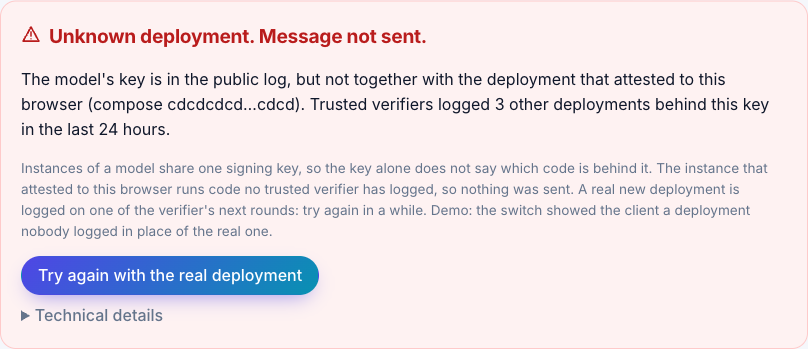
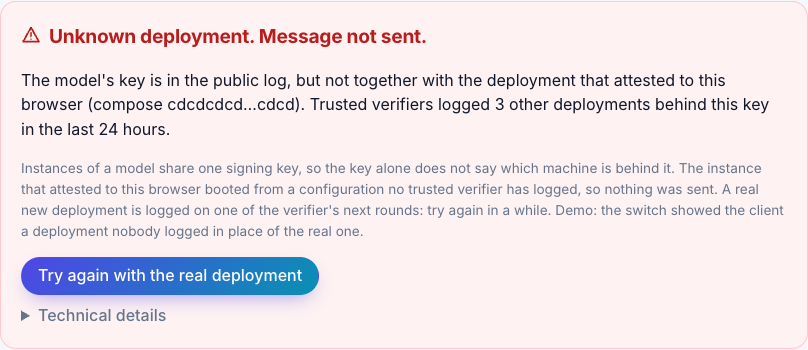
fix(web): say that the compose hash measures the enclave's launcher
The refusal card, the intro, the proof card hint and the /log page called the
compose hash "the code behind the key". It is the configuration the enclave
boots with; the containers that serve the model are started later and are not
in it. EN and RU, two screenshots retaken.

diff --git a/apps/web/lib/i18n.ts b/apps/web/lib/i18n.ts
@@ -57,7 +57,7 @@ const en = {
   /** What the refusal protected against, where a counterfactual exists; the quorum and split-view bodies already say it all. */
   refusedConsequence: {
     absent: 'Had Ainek sent, the message would have been encrypted to a key no verifier vouches for: whoever holds that key could read it.',
-    'unknown-deployment': 'Instances of a model share one signing key, so the key alone does not say which code is behind it. The instance that attested to this browser runs code no trusted verifier has logged, so nothing was sent. A real new deployment is logged on one of the verifier\'s next rounds: try again in a while.',
+    'unknown-deployment': 'Instances of a model share one signing key, so the key alone does not say which machine is behind it. The instance that attested to this browser booted from a configuration no trusted verifier has logged, so nothing was sent. A real new deployment is logged on one of the verifier\'s next rounds: try again in a while.',
     'untrusted-only': 'Ainek cannot tell this key from a forged one on the word of verifiers it does not trust, so nothing was sent.',
   } as Partial<Record<KeyLogReason, string>>,
   retryHonest: 'Try again with the honest key',
@@ -98,7 +98,7 @@ const en = {
     ],
     tryTitle: 'Try the honest path or one of the catches',
     chips: { ask: 'Ask a private question', tamper: 'Swap the key before sending', deployment: 'A deployment nobody logged', incognito: 'A model without hardware proof' },
-    subs: { ask: 'Encrypted to the attested key, answered with a proof you can re-check.', tamper: 'The fail-closed rule: the prompt never leaves the browser.', deployment: 'The real key, but code no verifier has logged behind it: nothing is sent.', incognito: 'Privacy by contract only, and the card says so.' },
+    subs: { ask: 'Encrypted to the attested key, answered with a proof you can re-check.', tamper: 'The fail-closed rule: the prompt never leaves the browser.', deployment: 'The real key, but a boot configuration no verifier has logged behind it: nothing is sent.', incognito: 'Privacy by contract only, and the card says so.' },
     prompts: { ask: 'In two sentences: what is a TEE, and why would I want my AI to run inside one?', tamper: 'hello', deployment: 'hello', incognito: 'hello' },
   },
   progress: {
@@ -120,7 +120,7 @@ const en = {
   explainRows: 'What do these rows mean?',
   hideRows: 'Hide the explanations',
   hints: {
-    model: 'Which model, and the deployment image in the attestation checked before sending. The compose hash measures the container set, not the weights.',
+    model: 'Which model, and the configuration its enclave booted with, from the attestation checked before sending. The compose hash measures that launcher. It does not measure the containers that serve the model, which the launcher starts later, or the weights.',
     hardware: "The Intel TDX quote was verified here against Intel's collateral; the NVIDIA GPU verdict came from NVIDIA's attestation service through NEAR AI's proxy and was checked here against NVIDIA's keys.",
     key: 'The signing key was found in the append-only log on NEAR, written by a verifier. Without it the message would not have been sent.',
     hashes: "Recomputed in this browser from the exact bytes: the step NEAR AI's own Verification Center says it cannot do.",
@@ -155,7 +155,7 @@ const en = {
     notTrusted: '(not in trust set)',
     deployments: {
       title: 'Deployments seen',
-      intro: 'Instances of a model share one signing key, so one key can stand in front of several deployments. Each line is one compose hash, the measurement of the container set, as verifiers logged it. A new line is a new compose file, not always new code: several hashes in this log carry the same set of container images, as replicas of one build would. The log records each one.',
+      intro: 'Instances of a model share one signing key, so one key can stand in front of several deployments. Each line is one compose hash, the measurement of the configuration an enclave boots with (its launcher), as verifiers logged it. The containers that serve the model are started later by that launcher and are not in this hash: a new release of them adds no line here. A new line is a new launcher configuration, not always new code: several hashes in this log carry the same set of launcher images, as replicas would. The log records each one.',
       enforced: { on: 'This site refuses to send unless the deployment that attests to your browser was logged in the last 24 hours by the verifiers you trust (the last column). The instance that then answers may be another one behind the same key: the gateway chooses per request.', off: 'This site is configured not to refuse on the deployment: it sends when the key is logged and shows the deployment on the proof card. The chat has a demo switch that shows the refusal.' },
       columns: { compose: 'compose', keys: 'signing key', verifiers: 'logged by', entries: 'entries', first: 'first seen', last: 'last seen', counts: 'would pass now' },
       counts: { ok: 'yes', 'below-quorum': 'no: below your quorum', 'split-view': 'no: your verifiers disagree', old: 'no: older than 24 h', untrusted: 'no: not from your trust set' },
@@ -410,7 +410,7 @@ const ru: typeof en = {
   refusedBody: 'Модель назвала ключ подписи, которого нет у доверенных верификаторов. Ainek отказывает, а не доверяет.',
   refusedConsequence: {
     absent: 'Если бы Ainek отправил, сообщение ушло бы на ключ, за который не ручается ни один верификатор: его владелец мог бы прочитать текст.',
-    'unknown-deployment': 'Экземпляры модели делят один ключ подписи, поэтому сам ключ не говорит, какой код за ним стоит. Экземпляр, который прошёл аттестацию перед этим браузером, работает на коде, которого не записал ни один доверенный верификатор, поэтому ничего не отправлено. Настоящий новый деплой верификатор запишет в один из ближайших раундов: попробуй позже.',
+    'unknown-deployment': 'Экземпляры модели делят один ключ подписи, поэтому сам ключ не говорит, какая машина за ним стоит. Экземпляр, который прошёл аттестацию перед этим браузером, загрузился с конфигурацией, которой не записал ни один доверенный верификатор, поэтому ничего не отправлено. Настоящий новый деплой верификатор запишет в один из ближайших раундов: попробуй позже.',
     'untrusted-only': 'Со слов верификаторов, которым клиент не доверяет, Ainek не отличит этот ключ от подделки, поэтому ничего не отправил.',
   },
   retryHonest: 'Повторить с честным ключом',
@@ -451,7 +451,7 @@ const ru: typeof en = {
     ],
     tryTitle: 'Попробуй честный путь или одну из поимок',
     chips: { ask: 'Задать приватный вопрос', tamper: 'Подменить ключ перед отправкой', deployment: 'Деплой, которого никто не записал', incognito: 'Модель без аппаратного доказательства' },
-    subs: { ask: 'Зашифровано на аттестованный ключ, ответ приходит с proof, который можно перепроверить.', tamper: 'Правило fail-closed: промпт не покидает браузер.', deployment: 'Ключ настоящий, но за ним код, которого не записал ни один верификатор: ничего не отправляется.', incognito: 'Приватность только по договору, и карточка так и скажет.' },
+    subs: { ask: 'Зашифровано на аттестованный ключ, ответ приходит с proof, который можно перепроверить.', tamper: 'Правило fail-closed: промпт не покидает браузер.', deployment: 'Ключ настоящий, но за ним загрузочная конфигурация, которой не записал ни один верификатор: ничего не отправляется.', incognito: 'Приватность только по договору, и карточка так и скажет.' },
     prompts: { ask: 'В двух предложениях: что такое TEE и зачем мне, чтобы мой ИИ работал внутри него?', tamper: 'hello', deployment: 'hello', incognito: 'hello' },
   },
   progress: {
@@ -473,7 +473,7 @@ const ru: typeof en = {
   explainRows: 'Что значат эти строки?',
   hideRows: 'Скрыть пояснения',
   hints: {
-    model: 'Какая модель и какой образ деплоя были в аттестации, проверенной перед отправкой. Compose-хеш измеряет набор контейнеров, а не веса.',
+    model: 'Какая модель и с какой конфигурацией загрузился её анклав, по аттестации, проверенной перед отправкой. Compose-хеш измеряет этот загрузчик. Он не измеряет контейнеры, обслуживающие модель (их загрузчик запускает позже), и не измеряет веса.',
     hardware: 'Квота Intel TDX проверена здесь по данным Intel; вердикт по NVIDIA GPU выдал сервис аттестации NVIDIA через прокси NEAR AI и проверен здесь по ключам NVIDIA.',
     key: 'Ключ подписи найден в append-only логе в NEAR, который пишет верификатор. Без него сообщение не ушло бы.',
     hashes: 'Пересчитано в этом браузере из точных байтов: тот самый шаг, который Verification Center самой NEAR AI сделать не может.',
@@ -508,7 +508,7 @@ const ru: typeof en = {
     notTrusted: '(не в доверенном наборе)',
     deployments: {
       title: 'Виденные деплои',
-      intro: 'Экземпляры модели делят один ключ подписи, поэтому за одним ключом может стоять несколько деплоев. Каждая строка — один compose-хеш, измерение набора контейнеров, как его записали верификаторы. Новая строка — это новый compose-файл, но не всегда новый код: у нескольких хешей в этом журнале один и тот же набор образов контейнеров, как было бы у реплик одной сборки. Журнал записывает каждую.',
+      intro: 'Экземпляры модели делят один ключ подписи, поэтому за одним ключом может стоять несколько деплоев. Каждая строка — один compose-хеш, измерение конфигурации, с которой загружается анклав (его загрузчика), как его записали верификаторы. Контейнеры, обслуживающие модель, загрузчик запускает позже, и в этот хеш они не входят: их новый релиз строки здесь не добавляет. Новая строка — это новая конфигурация загрузчика, но не всегда новый код: у нескольких хешей в этом журнале один и тот же набор образов загрузчика, как было бы у реплик. Журнал записывает каждую.',
       enforced: { on: 'Сайт не отправляет сообщение, если деплой, прошедший аттестацию перед твоим браузером, не записан за последние 24 часа верификаторами, которым ты доверяешь (последняя колонка). Ответить затем может другой экземпляр под тем же ключом: его на каждый запрос выбирает шлюз.', off: 'Этот сайт настроен не отказывать по деплою: он отправляет, когда записан ключ, и показывает деплой на карточке proof. В чате есть демо-переключатель, который показывает отказ.' },
       columns: { compose: 'compose', keys: 'ключ подписи', verifiers: 'кто записал', entries: 'записей', first: 'впервые', last: 'последний раз', counts: 'прошёл бы сейчас' },
       counts: { ok: 'да', 'below-quorum': 'нет: меньше твоего кворума', 'split-view': 'нет: твои верификаторы расходятся', old: 'нет: старше 24 ч', untrusted: 'нет: не из твоего trust set' },
